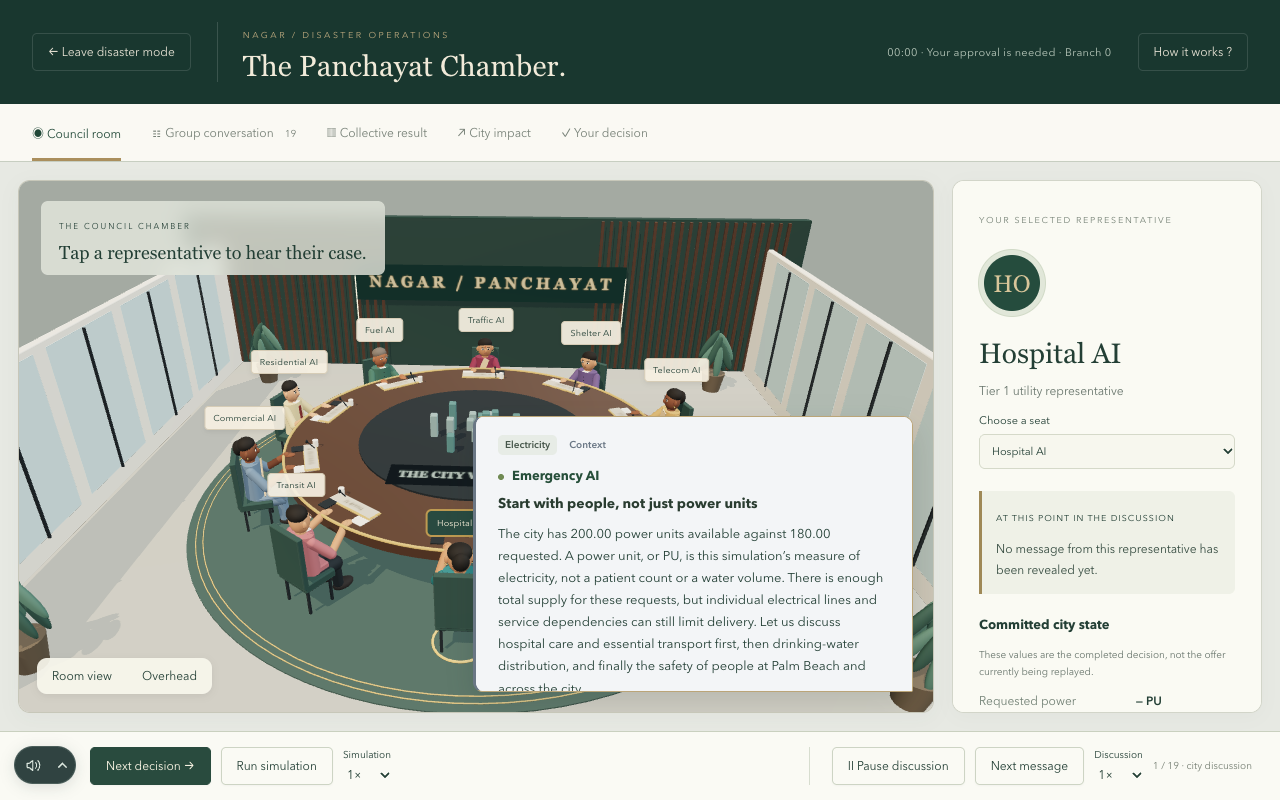
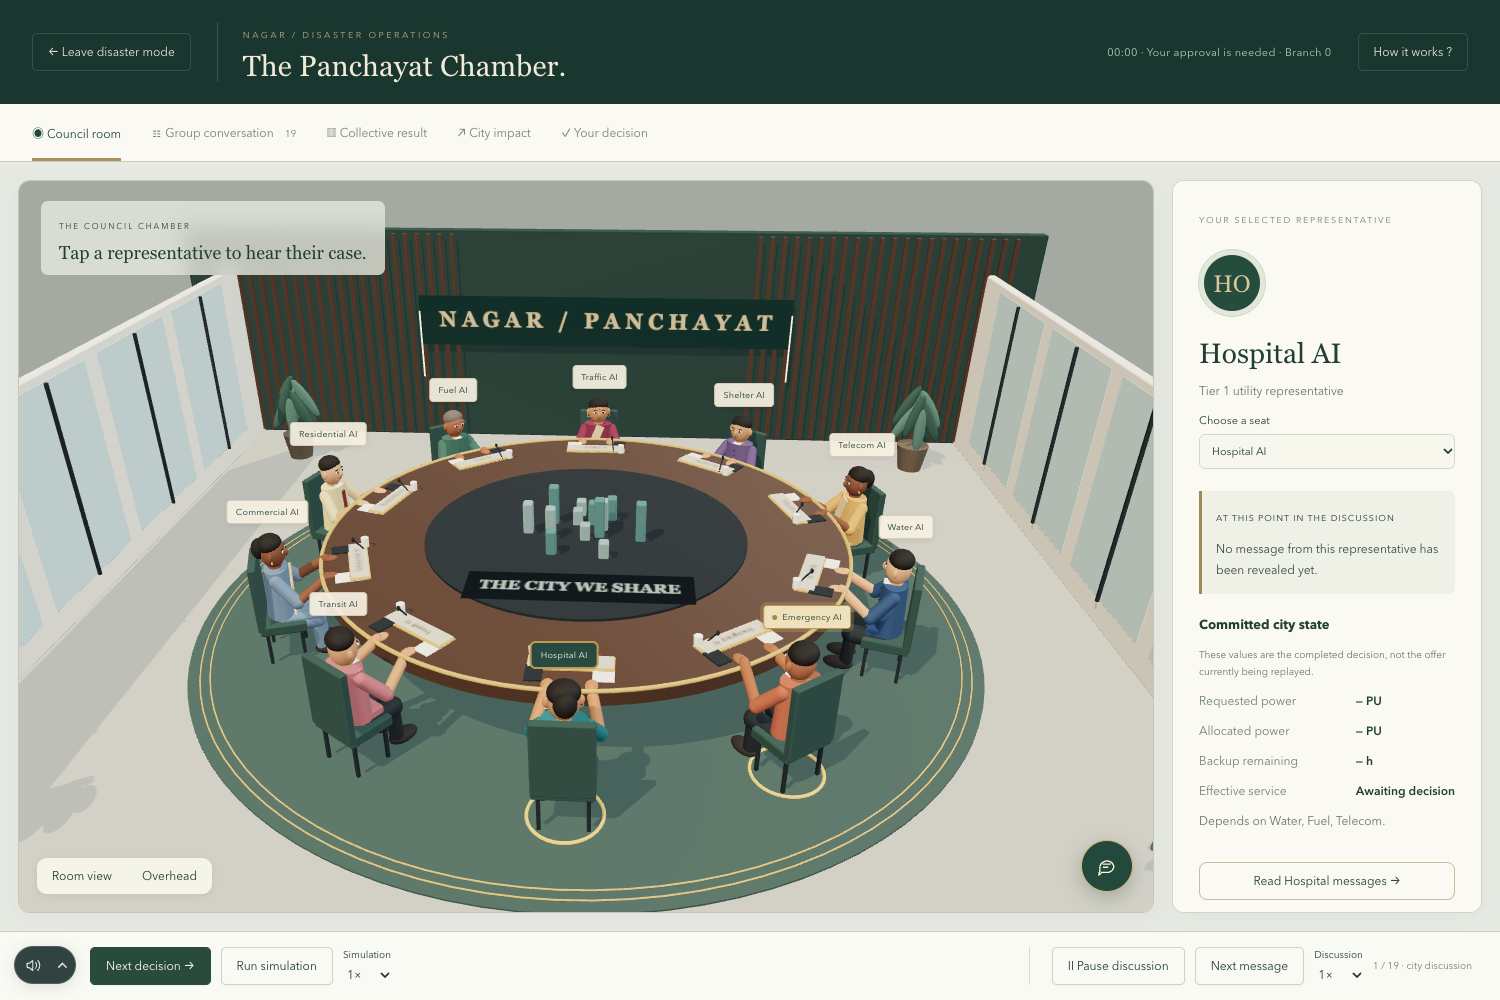
docs(readme): fix Panchayat chamber and courtroom views with proper 3D room perspective

diff --git a/scripts/capture-proper-panchayat.ts b/scripts/capture-proper-panchayat.ts
@@ -1,0 +1,92 @@
+import { chromium, expect } from "@playwright/test";
+import path from "node:path";
+
+const ASSETS_DIR = path.resolve("docs/assets");
+const PREVIEW_URL = process.env.PREVIEW_URL ?? "http://127.0.0.1:4173/";
+
+console.log("Launching Chromium for Proper Panchayat Courtroom Photos...");
+const browser = await chromium.launch({
+  headless: true,
+  executablePath:
+    process.env.CHROME_PATH ??
+    "/Applications/Google Chrome.app/Contents/MacOS/Google Chrome",
+  args: ["--enable-unsafe-swiftshader", "--disable-gpu-sandbox"],
+});
+
+try {
+  const page = await browser.newPage({
+    viewport: { width: 1500, height: 1000 },
+  });
+
+  await page.goto(PREVIEW_URL + "?seed=42");
+  await page.waitForFunction(() => !!window.vidyutCity);
+  await page.waitForTimeout(1000);
+
+  // 1. Enter the council
+  await page.locator("#enter-council").click();
+  await page.waitForFunction(
+    () => window.vidyutCity?.getSimulation().state === "AwaitingHuman",
+  );
+  await expect(page.locator("#conference-canvas")).toBeVisible();
+  await expect(page.locator(".delegate-label")).toHaveCount(10);
+
+  // Ensure camera is at authored overview
+  await page.locator("#room-overview").click();
+  await page.waitForTimeout(1500);
+
+  // Photo 1: Primary 3D Council Chamber (Courtroom View)
+  console.log("Capturing panchayat-chamber-3d.png...");
+  await page.screenshot({
+    path: path.join(ASSETS_DIR, "panchayat-chamber-3d.png"),
+  });
+
+  // Photo 2: Delegate Inspection (Select Hospital AI)
+  console.log("Capturing panchayat-delegate-inspection.png...");
+  await page.locator('[data-delegate="hospital"]').click();
+  await page.waitForTimeout(1000);
+  await page.screenshot({
+    path: path.join(ASSETS_DIR, "panchayat-delegate-inspection.png"),
+  });
+
+  // Photo 3: Overhead Tactical Table View
+  console.log("Capturing panchayat-overhead.png...");
+  await page.locator("#room-top").click();
+  await page.waitForTimeout(1000);
+  await page.screenshot({
+    path: path.join(ASSETS_DIR, "panchayat-overhead.png"),
+  });
+
+  // Switch back to room view
+  await page.locator("#room-overview").click();
+  await page.waitForTimeout(800);
+
+  // Photo 4: Active Deliberation in Session (Approve & Step to generate real deliberation message & bubble)
+  console.log("Capturing panchayat-deliberation-active.png...");
+  await page.locator('[data-room-tab="evidence"]').click();
+  await page.locator("#guide-approve").click();
+  await page.locator("#room-step").click();
+  await page.waitForFunction(
+    () => window.vidyutCity?.getSimulation().tick?.t === 0,
+  );
+  await page.locator('[data-room-tab="room"]').click();
+  await page.waitForTimeout(1200);
+
+  // Open speaker bubble if present or toggle message
+  const speakerToggle = page.locator("#speaker-toggle");
+  if (await speakerToggle.isVisible()) {
+    await speakerToggle.click();
+    await page.waitForTimeout(500);
+  }
+
+  await page.screenshot({
+    path: path.join(ASSETS_DIR, "panchayat-deliberation-active.png"),
+  });
+
+  await page.screenshot({
+    path: path.join(ASSETS_DIR, "panchayat-courtroom-close.png"),
+  });
+
+  console.log("Successfully captured all proper Panchayat courtroom photos!");
+} finally {
+  await browser.close();
+}
